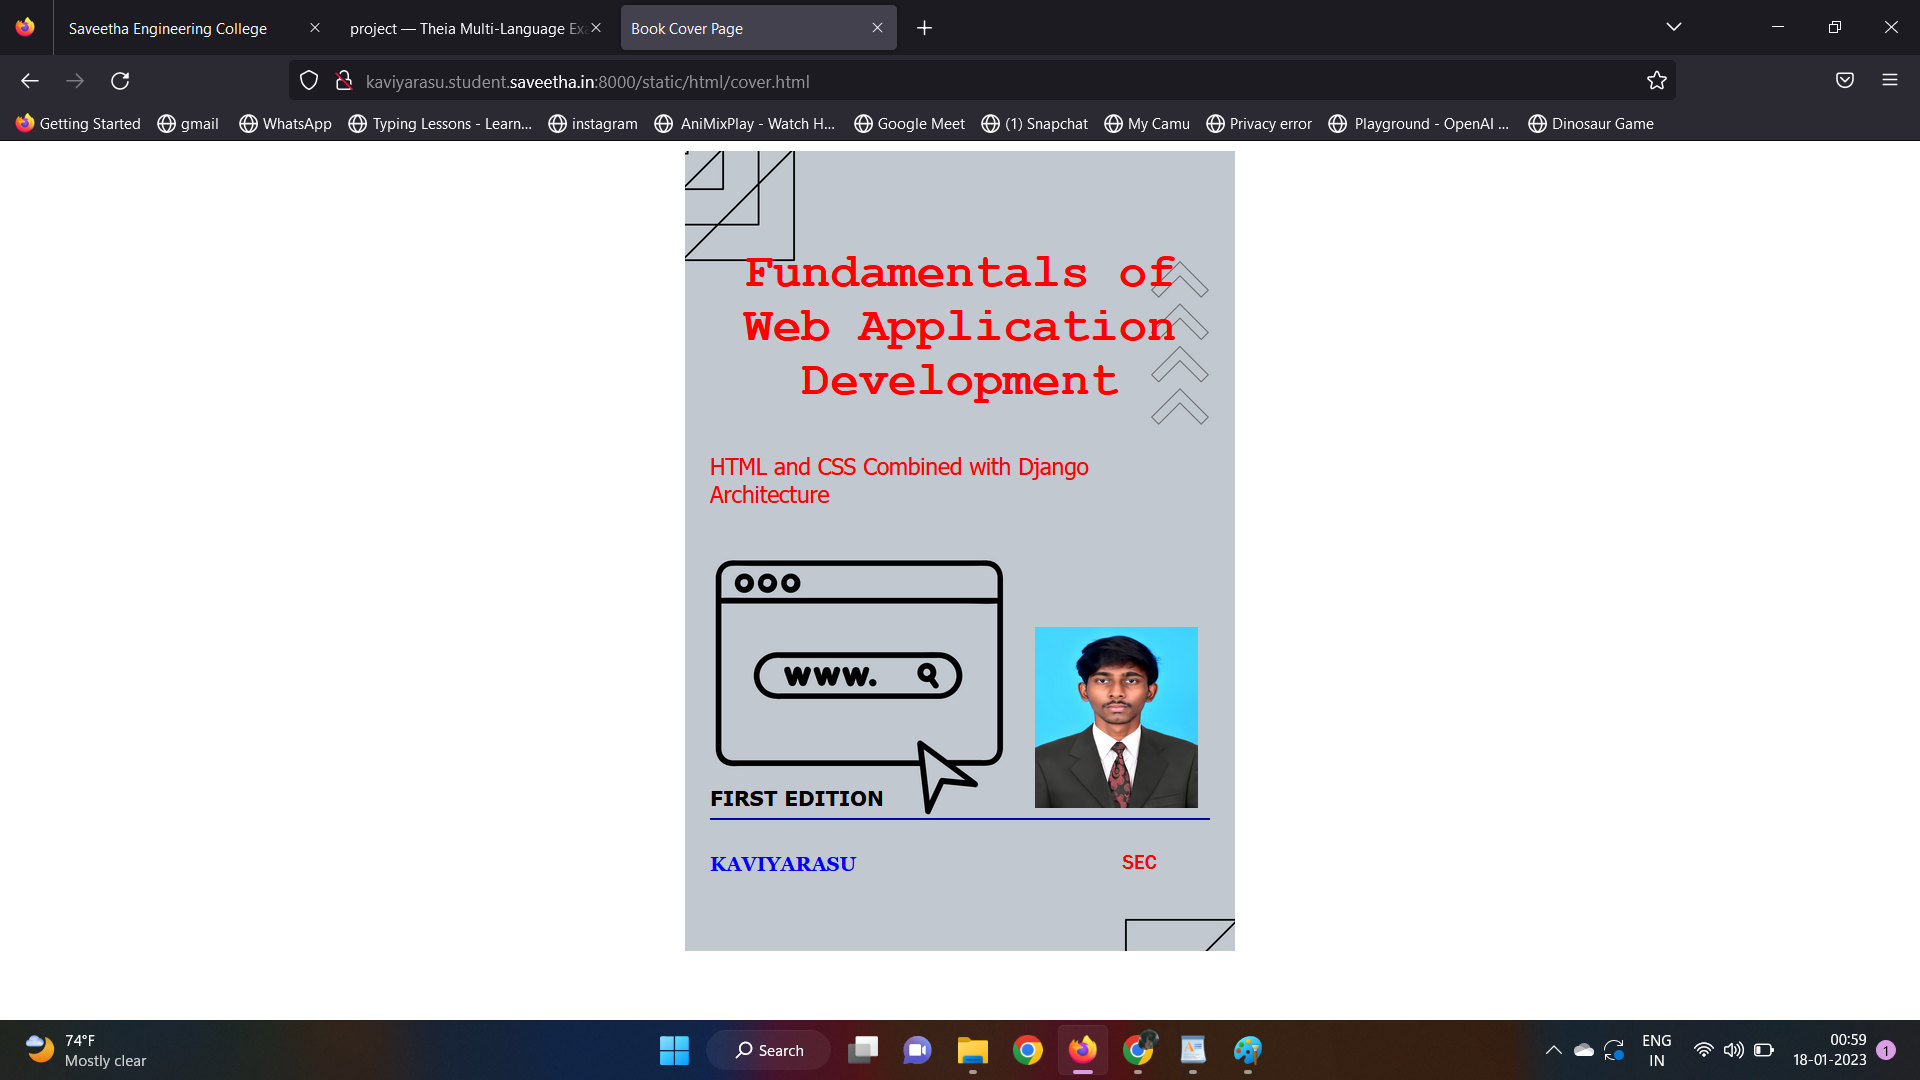
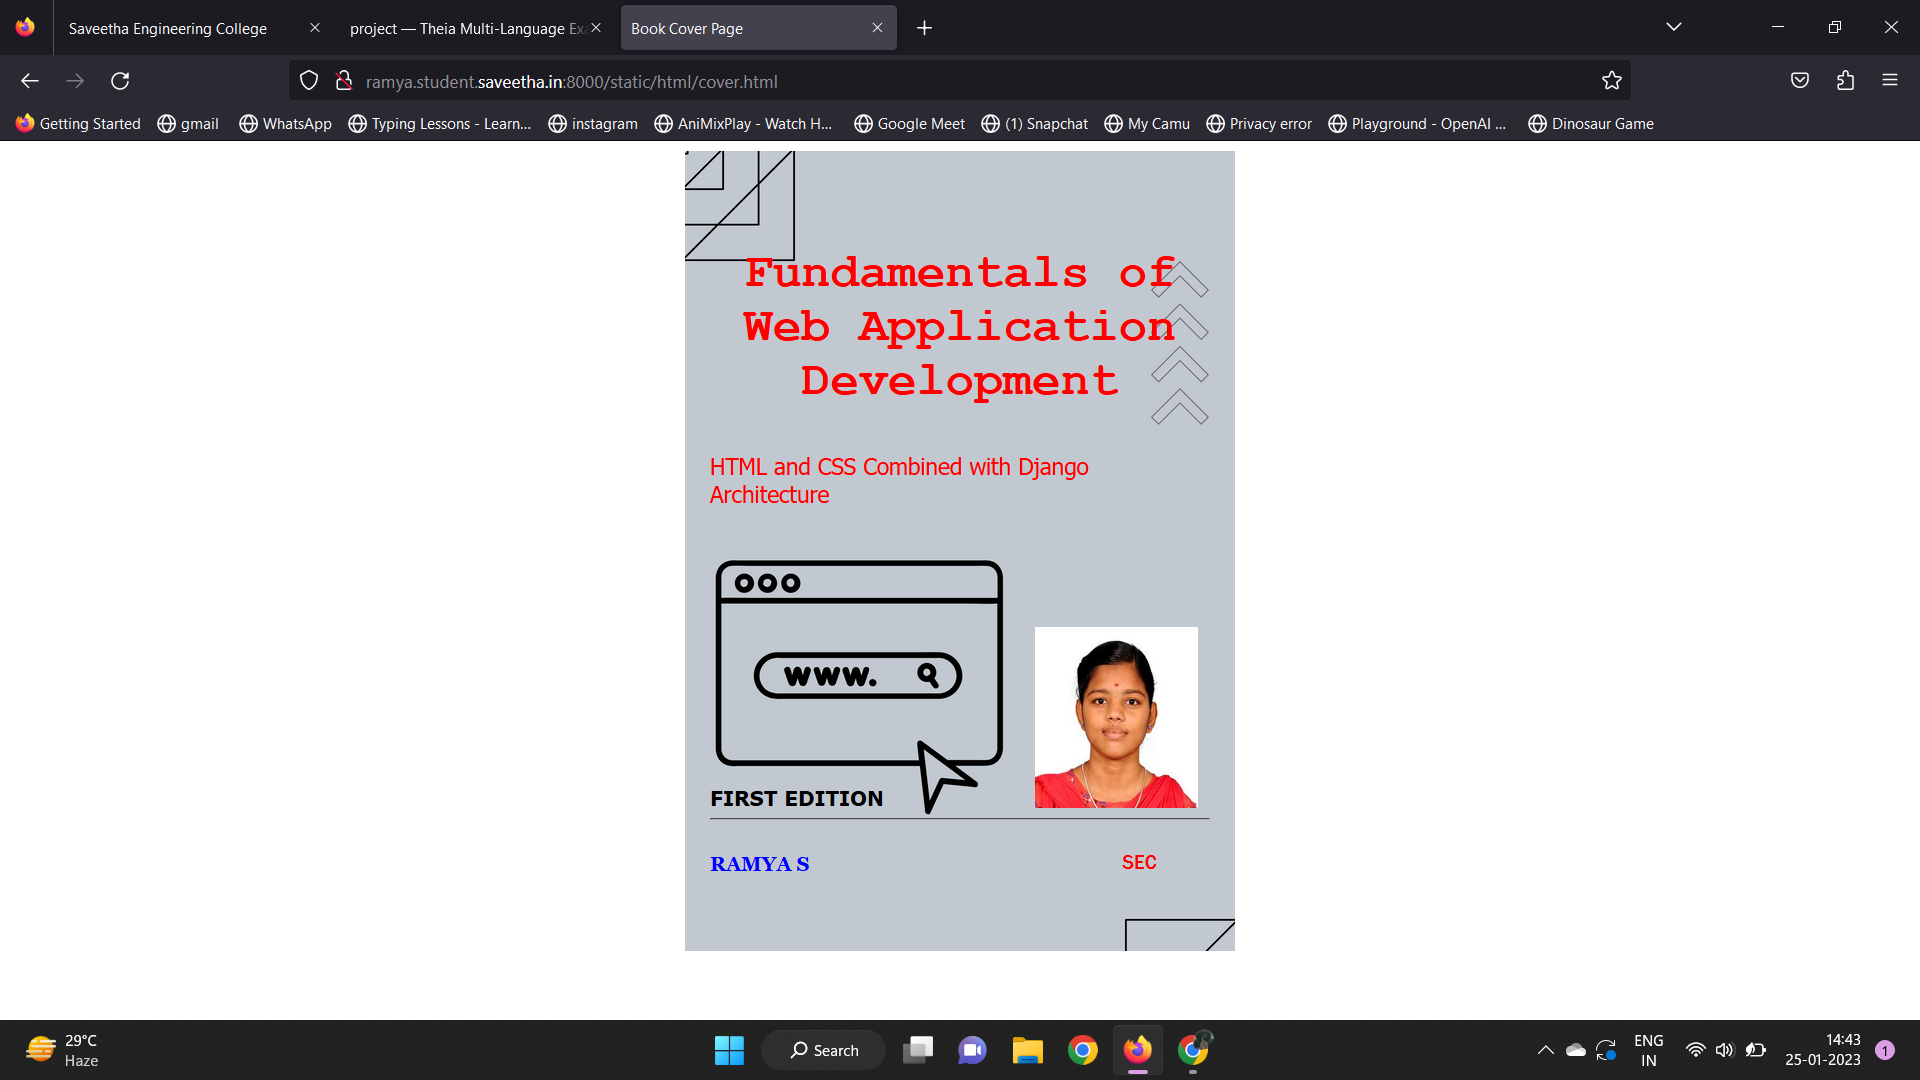
Success

diff --git a/kaviyarasu/static/html/cover.html b/kaviyarasu/static/html/cover.html
@@ -96,13 +96,13 @@
                 HTML and CSS Combined with Django Architecture
             </div>
             <div class="mypic">
-                <img src="/static/images/me.jpg" width="130" height="145" alt="">
+                <img src="/static/images/my.jpeg" width="130" height="145" alt="">
             </div>
             <div class="id">
                 <hr style="color: black;">
             </div>
             <div class="author">
-               <p><b>KAVIYARASU</b></p>
+               <p><b>RAMYA S</b></p>
             </div>
             <div class="pub">
                 SEC
